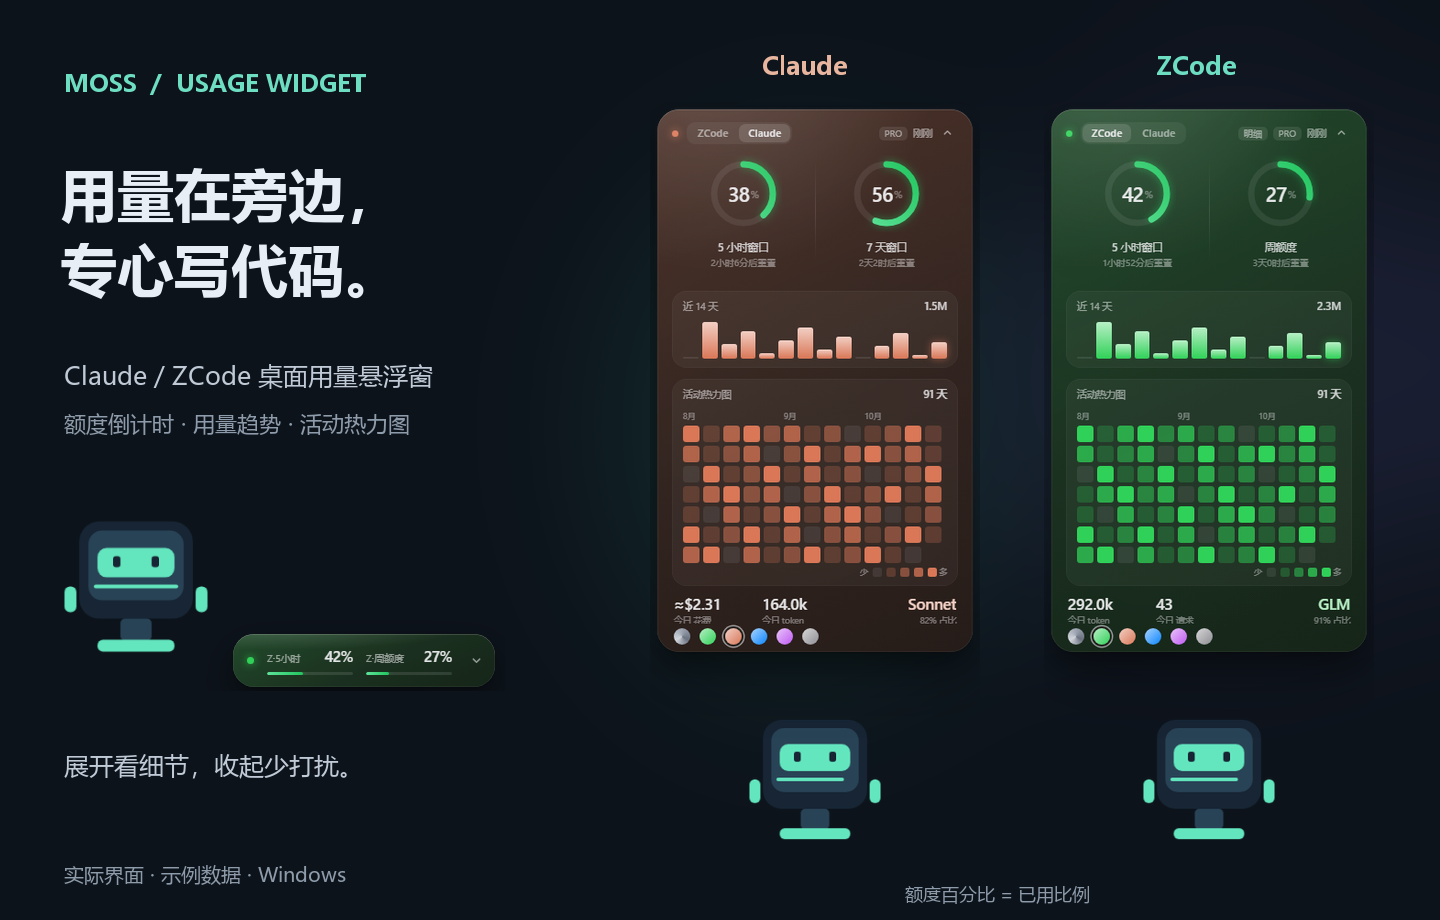
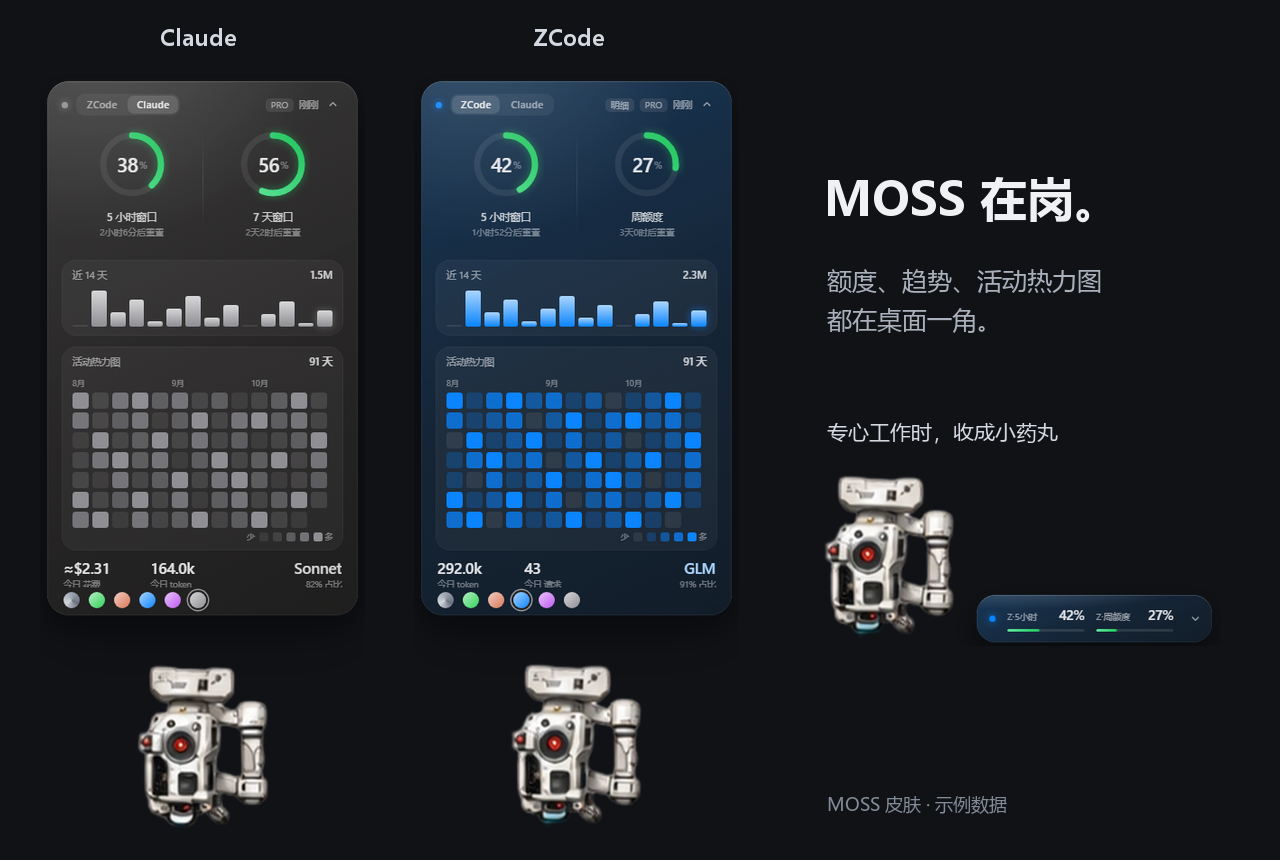
docs: make homepages useful to first-time visitors

diff --git a/README.md b/README.md
@@ -1,31 +1,31 @@
 # MOSS Usage Widget
 
-**写代码时，抬眼就知道 Claude / ZCode 用到哪了。**
+**让 MOSS 陪你写代码，额度进度一眼掌握。**
 
-写到兴头上，才发现额度快用完了。MOSS 把两边的额度和本地用量放在桌面一角：想看细节就展开卡片，专心工作时收成一枚小药丸，旁边还有一只会动的小机器人。
+Claude 和 ZCode 来回用，额度也可以放在一起看。MOSS 把已用比例、重置倒计时和本地用量放到桌面一角：展开卡片看趋势，收成药丸看进度，桌面搭子陪你一起开工。
 
-[开始使用](#开始使用) · [下载源码](https://github.com/Maneck007/moss-usage-widget/releases/latest) · [配置与常见问题](docs/USAGE.md) · [反馈建议](https://github.com/Maneck007/moss-usage-widget/issues)
+[开始使用](#开始使用) · [下载源码](https://github.com/Maneck007/moss-usage-widget/releases/latest) · [使用 MOSS 皮肤](docs/APPEARANCE.md) · [配置说明](docs/USAGE.md)
 
 [![Checks](https://github.com/Maneck007/moss-usage-widget/actions/workflows/checks.yml/badge.svg)](https://github.com/Maneck007/moss-usage-widget/actions/workflows/checks.yml)
 
-![MOSS 的 Claude、ZCode 卡片与紧凑药丸；界面使用示例数据展示](docs/overview.png)
+![MOSS 皮肤下的 Claude、ZCode 用量卡片与紧凑药丸，使用示例数据展示](docs/overview.png)
 
-*真实界面，示例数据。百分比表示已用额度；本地 token 记录和订阅额度分别统计。*
+*图中使用 MOSS 皮肤与示例数据。源码内置简约皮肤，按[外观配置](docs/APPEARANCE.md)可加载图中的 MOSS。*
 
-## 少切几次页面，多看一眼桌面
+## 今天的用量，抬眼就有数
 
-| 你想知道 | MOSS 怎么展示 |
+| 想看什么 | 桌面上就有 |
 |---|---|
-| 这轮额度还剩多少？ | Claude / ZCode 已用百分比和重置倒计时，不用反复打开用量页 |
-| 最近用得多不多？ | 近 14 天用量柱状图、35 / 91 / 140 天活动热力图 |
-| 今天主要在用什么？ | 本地 token、主力模型与占比；ZCode 请求数、Claude 近似成本 |
-| 不想让面板挡住工作？ | 卡片与药丸一键切换，可拖动、切换配色，也可跟随系统主题 |
+| 这一轮用了多少 | Claude / ZCode 已用百分比、额度窗口和重置倒计时 |
+| 最近的使用节奏 | 近 14 天用量柱状图、35 / 91 / 140 天活动热力图 |
+| 今天的主力模型 | 本地 token、模型占比、ZCode 请求数、Claude 近似成本 |
+| 适合自己的摆法 | 卡片 / 药丸切换、拖动定位、多套配色与系统主题 |
 
-额度升高时，颜色会从绿变为琥珀、红色；小机器人也会切换状态。想要语音提醒，可以在配置中开启。
+用量从容时是绿色，接近上限时变为琥珀和红色，桌面搭子也会切换状态。语音提醒可以按需开启。
 
 ## 开始使用
 
-适合在 **Windows 10/11** 上使用 Claude / ZCode 的人。当前提供源码，需要 **Node.js 22.12+（推荐 24）和 npm**，暂时没有免安装 exe。
+运行环境：**Windows 10/11 + Node.js 22.12+（推荐 24）+ npm**。当前版本通过源码启动。
 
 ```powershell
 git clone https://github.com/Maneck007/moss-usage-widget.git
@@ -35,20 +35,22 @@ Copy-Item config.example.json config.json
 npm start
 ```
 
-先打开看看，不必一次配齐所有功能：
+打开面板后，按自己的需要接入数据：
 
-- **先看本地统计**：有 Claude / ZCode 会话日志时，无需密钥即可显示相应的 token 记录。
-- **再接入账号额度**：按[配置说明](docs/USAGE.md#数据与配置)填写自己的 `config.json`；两边可以分别配置。
-- **放到顺手的位置**：拖动卡片或机器人；点击机器人或按 `Ctrl+Alt+M` 切换卡片 / 药丸。
+- **本地用量**：读取已有的 Claude / ZCode 会话日志，展示 token、趋势和活动热力图。
+- **账号额度**：在 `config.json` 中分别填写平台凭据，按[配置说明](docs/USAGE.md#数据与配置)完成同步。
+- **桌面外观**：跟随[皮肤教程](docs/APPEARANCE.md)换上 MOSS；拖动到顺手的位置，点击搭子或按 `Ctrl+Alt+M` 切换视图。
 
-依赖安装好后，也可双击 `启动.vbs` 静默启动。默认关闭跟随启动和 Claude statusLine 安装；需要时再启用。更多操作、数据位置和卸载方法见[使用说明](docs/USAGE.md)。
+依赖安装好后，也可双击 `启动.vbs` 静默启动。自动跟随应用、主题、提醒和卸载方法见[使用说明](docs/USAGE.md)。
 
-## 使用前了解
+## 数据说明
 
-Claude 额度依赖网页接口及本人登录状态，可能需要人工验证，也可能随网页变化失效。密钥和 sessionKey 只保存在自己的配置里。留空账号凭据，仍可使用已有日志的本地统计。本地成本是记录中的近似值，不是订阅账单。
+账号额度来自平台接口，本地用量来自会话日志，面板分别展示两种口径。Claude 同步使用本人登录状态，按页面提示完成验证；本地成本按会话记录近似归属。详细字段和凭据配置见[数据说明](docs/USAGE.md#数据与配置)。
 
 ## 来源与参与
 
-界面思路与部分样式参考 [yuemuqing-thu/claude-usage-widget](https://github.com/yuemuqing-thu/claude-usage-widget)，完整声明见 [THIRD_PARTY_NOTICES.md](THIRD_PARTY_NOTICES.md)。公开版的几何机器人和托盘图标为原创，原个人版的 MOSS 精灵图不随仓库分发；项目与《流浪地球》、Anthropic、智谱均无官方关联。
+MOSS 皮肤由 **skerio** 发布于 [Codex Pet 社区](https://codex-pet.org)，形象来自《流浪地球》系列。皮肤来源和获取方式见[外观配置](docs/APPEARANCE.md)。
 
-本项目使用 [MIT 许可](LICENSE)，借助 ZCode 等 AI 编程工具开发，由维护者审阅与验证。想改进它，欢迎[提 Issue](https://github.com/Maneck007/moss-usage-widget/issues) 或按[贡献说明](CONTRIBUTING.md)提交 PR；反馈时请去除私人日志和凭据。
+界面思路与部分样式参考 [yuemuqing-thu/claude-usage-widget](https://github.com/yuemuqing-thu/claude-usage-widget)，声明见 [THIRD_PARTY_NOTICES.md](THIRD_PARTY_NOTICES.md)。自有代码采用 [MIT 许可](LICENSE)，第三方形象与素材保留各自权利。
+
+欢迎到 [Issues](https://github.com/Maneck007/moss-usage-widget/issues) 分享使用体验，或按[贡献说明](CONTRIBUTING.md)提交改进。本项目借助 AI 编程工具开发，由维护者审阅与验证。

diff --git a/docs/APPEARANCE.md b/docs/APPEARANCE.md
@@ -1,0 +1,45 @@
+# 加载 MOSS 皮肤
+
+[返回项目首页](../README.md)
+
+首页效果图使用 **skerio** 发布在 [Codex Pet 社区](https://codex-pet.org)的 MOSS 皮肤，形象来自《流浪地球》系列。源码内置简约皮肤，渲染器支持读取本地 8 列 × 9 行精灵图。
+
+## 获取皮肤
+
+已通过 Codex Pet 安装过 MOSS 时，可以直接使用已有文件。首次获取的安装命令为：
+
+```powershell
+npx codex-pet-installer add moss
+```
+
+该安装器的默认下载站点为 Codex Pet。可在站点查看 MOSS 条目和作者信息。安装后，精灵图通常位于 `%USERPROFILE%\.codex\pets\moss\spritesheet.webp`。
+
+## 接入用量组件
+
+在本项目根目录运行：
+
+```powershell
+New-Item -ItemType Directory -Force assets\moss | Out-Null
+Copy-Item "$env:USERPROFILE\.codex\pets\moss\spritesheet.webp" assets\moss\spritesheet.webp
+```
+
+打开 `renderer/panel.js`，将宠物实例这一行：
+
+```javascript
+const pet = new MossPet(document.getElementById('pet'));
+```
+
+改为：
+
+```javascript
+const pet = new MossPet(document.getElementById('pet'), '../assets/moss/spritesheet.webp');
+```
+
+保存后重启组件，即可使用 MOSS 皮肤。`assets/moss/` 已列入 Git 忽略规则，作为本机外观配置保存。
+
+## 素材来源
+
+- 发布者：**skerio**，平台：[Codex Pet](https://codex-pet.org)。
+- 获取入口：`npx codex-pet-installer add moss`。
+- MOSS 形象及精灵素材保留各自权利；本项目自有代码采用 MIT。
+- 首页图片展示该皮肤下的组件效果，额度及用量使用示例数据。

diff --git a/THIRD_PARTY_NOTICES.md b/THIRD_PARTY_NOTICES.md
@@ -2,7 +2,9 @@
 
 界面布局与部分样式参考 claude-usage-widget。保留其 MIT 声明如下。
 
-原个人版使用的 Codex 宠物精灵图不包含在本仓库和发行包中；本版默认图形由 Canvas 和简单几何图形绘制。
+首页效果图使用 Codex Pet 社区用户 **skerio** 发布的 MOSS 皮肤，形象来自《流浪地球》系列。来源与获取方式见 [外观配置](docs/APPEARANCE.md)。源码内置 Canvas 简约皮肤，并支持本地精灵图。
+
+本项目 MIT 许可适用于自有代码和文档文字；第三方形象与素材保留各自权利。
 
 ```text
 MIT License

diff --git a/CHANGELOG.md b/CHANGELOG.md
@@ -2,6 +2,8 @@
 
 ## 未发布
 
+首页文案改为直接介绍用途与操作，将详细运行条件集中到使用说明。效果预览使用 MOSS 皮肤，补充素材署名与本地皮肤接入教程。
+
 重写项目首页，补充使用场景与效果展示；详细配置和排错迁至 docs/USAGE.md。功能和 v0.1.0 发行包保持不变。
 
 ## 0.1.0 · 2026-10-30
